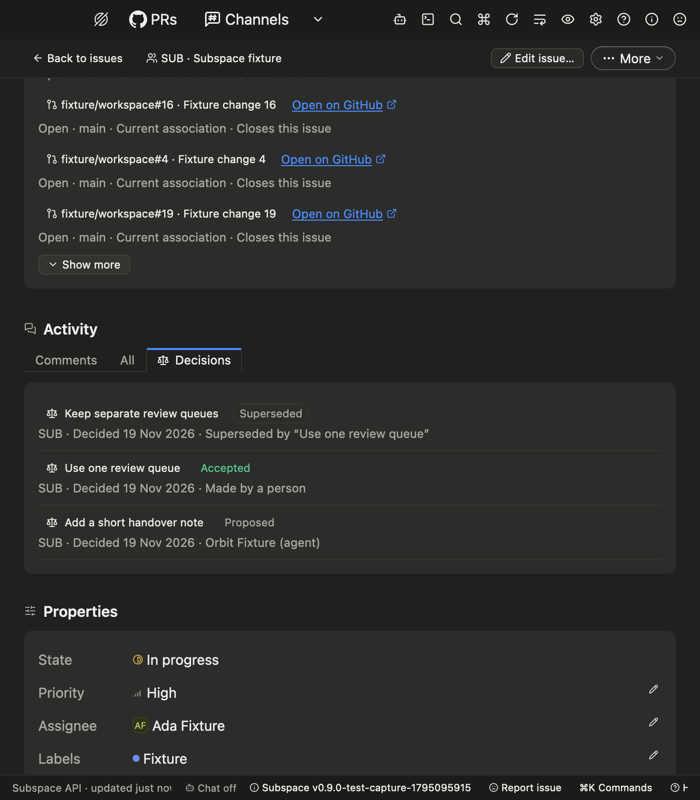
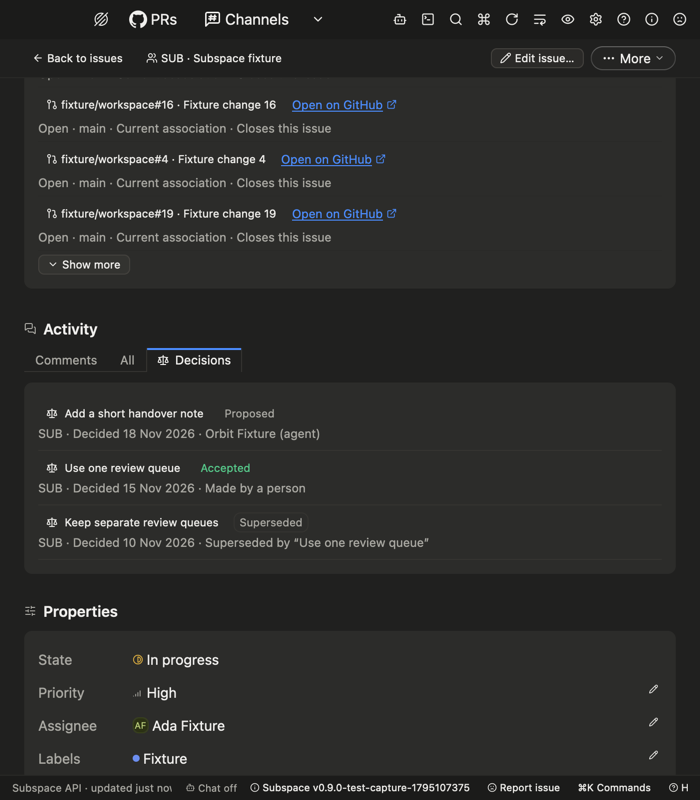
docs(issues): recapture decisions evidence in the API's order
The capture fixture now lists decisions newest decided first on distinct
dates, so the tab, panel, followed, Escape, missing-detail and 700 px
captures are taken again with make capture. The delivery page notes the
order and that the reveal, scroll-key and inert-page behaviour is covered
by headless tests.

diff --git a/subspace-desktop/docs/changes/issue-decisions/delivery.md b/subspace-desktop/docs/changes/issue-decisions/delivery.md
@@ -27,7 +27,7 @@ before this change.
 | State | Image |
 | --- | --- |
 | Before: SUB-1's Activity has only Comments and All | ![Before](evidence/before-comments.png) |
-| The Decisions tab on SUB-1: three linked decisions with their status, project, date, and maker or successor | ![Decisions tab](evidence/after-tabs-decisions.png) |
+| The Decisions tab on SUB-1: three linked decisions, newest decided first, with their status, project, date, and maker or successor | ![Decisions tab](evidence/after-tabs-decisions.png) |
 | **Use one review queue** in the side panel, scrolled down: the decision text, maker, evidence link showing its host, the decision it supersedes and linked issues SUB-1 and SUB-4 | ![Decision panel](evidence/after-panel.png) |
 | After following **Supersedes**: the earlier decision, with Back to return | ![Followed decision](evidence/after-panel-followed.png) |
 | Escape closes the panel, keeps the Decisions tab and returns focus to the opener | ![Panel closed](evidence/after-panel-escape.png) |
@@ -41,7 +41,10 @@ before this change.
 The panel's width is clamped to at least 320 px and at most 75% of the
 window, so at 700 px it is 525 px wide. This is intended.
 
-The keyboard walkthrough was not captured natively. The capture harness
+Tab revealing clipped controls, the scroll keys and the inert issue page
+behind the panel are covered by headless tests
+(`tests/decisions/keyboard.rs`), not captures. The keyboard walkthrough was
+not captured natively. The capture harness
 focuses the Space again before every `key:` step, so Enter doesn't activate
 a focused tab. The headless test
 `keyboard_only_from_activity_to_decision_and_back` covers the same keyboard
